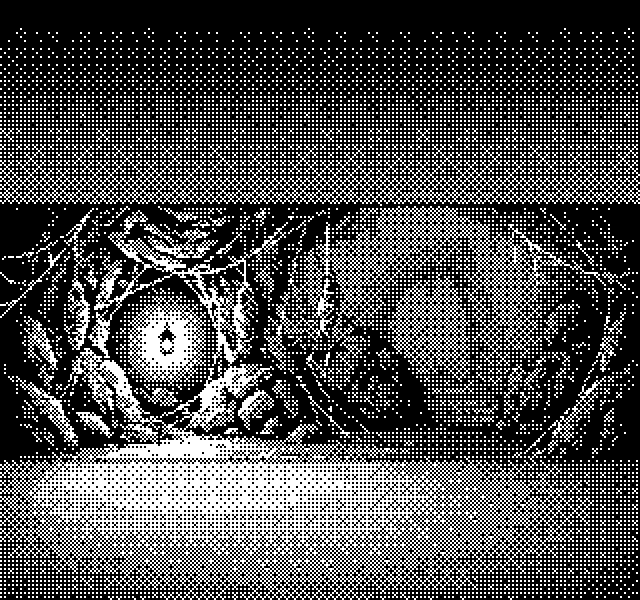
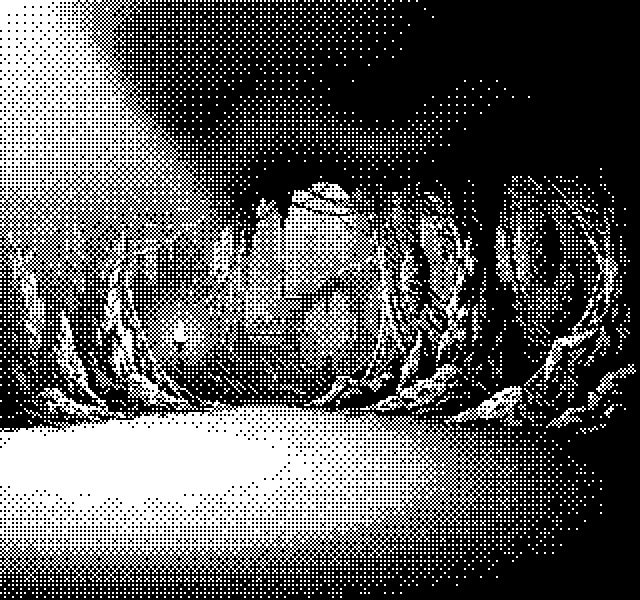
067 dojo follow-ups: arena3d holds the tiles from card landing (release in finally); 6 letterboxed arena stills regenerated, all 14 sheets rebuilt

Changed region(s): [[0.0, 0.0, 1.0, 1.0], [0.2812, 0.15, 0.375, 0.27], [0.375, 0.12, 0.4062, 0.15]]

diff --git a/worldd/static/site/fight3d/arena3d.js b/worldd/static/site/fight3d/arena3d.js
@@ -661,30 +661,53 @@ async function mountArena(card) {
       .then(() => stage());
     return;
   }
-  const same = F && !F.ended && F.key === fightKey(spec) && F.player;
-  if (!same) {
-    const ok = await build(card, spec);
-    if (!ok || !card.isConnected) return;
-  } else {
-    F.card = card;
-    if (F.line !== (spec.me || {}).line && (spec.me || {}).line) {
-      await rearm(spec.me.line);
+  // hold the tiles from the moment the card lands — build() may await
+  // rigs and sheets; a click in that gap would double-act. Whatever
+  // happens next (dead GL, a swapped card, a broken rig) the finally
+  // hands the tiles back and shows the log in full.
+  holdTiles(card, (spec.events || []).length > 0);
+  try {
+    const same = F && !F.ended && F.key === fightKey(spec) && F.player;
+    if (!same) {
+      const ok = await build(card, spec);
+      if (!ok || !card.isConnected) return;
+    } else {
+      F.card = card;
+      if (F.line !== (spec.me || {}).line && (spec.me || {}).line) {
+        await rearm(spec.me.line);
+      }
     }
+    if (!F || !card.isConnected) return;
+    F.card = card;
+    F.gen = ++genCounter;
+    if (!attach(card)) return;
+    GL.canvas.style.opacity = "";
+    startLoop();
+    // one rendered frame first, then the beats
+    await new Promise((r) => requestAnimationFrame(() => setTimeout(r, 120)));
+    if (!card.isConnected || !F) return;
+    await play(card, spec);
+    if (spec.phase === "victory" || spec.phase === "death" || spec.phase === "fled") {
+      // the fight is over — the next card tears the stage down
+      F.ended = true;
+    }
+  } finally {
+    releaseTiles(card);
   }
-  if (!F || !card.isConnected) return;
-  F.card = card;
-  F.gen = ++genCounter;
-  if (!attach(card)) return;
-  GL.canvas.style.opacity = "";
-  startLoop();
-  // one rendered frame first, then the beats
-  await new Promise((r) => requestAnimationFrame(() => setTimeout(r, 120)));
-  if (!card.isConnected || !F) return;
-  await play(card, spec);
-  if (spec.phase === "victory" || spec.phase === "death" || spec.phase === "fled") {
-    // the fight is over — the next card tears the stage down
-    F.ended = true;
-  }
+}
+
+function holdTiles(card, on) {
+  const opts = card.querySelector(".arena-opts");
+  if (!on || !opts) return;
+  opts.classList.add("busy");
+  card.querySelectorAll(".arena-opts button.opt").forEach((b) => { b.disabled = true; });
+}
+
+function releaseTiles(card) {
+  if (!card.isConnected) return;
+  card.querySelector(".arena-opts")?.classList.remove("busy");
+  card.querySelectorAll(".arena-opts button.opt").forEach((b) => { b.disabled = false; });
+  card.querySelectorAll(".alog .aline.pending").forEach((l) => l.classList.remove("pending"));
 }
 
 const game = document.getElementById("game");

diff --git a/research/3d-fight/gen_bg_arena.py b/research/3d-fight/gen_bg_arena.py
@@ -50,7 +50,11 @@ STAGE300 = (
     "it. All scenery sits BEHIND that open ground in the middle band; "
     "the UPPER THIRD is quiet — dark sky, roof or haze with soft "
     "gradients only, no busy detail (a heads-up display will sit over "
-    "it). The ground line is strictly horizontal. "
+    "it). The ground line is strictly horizontal. The picture FILLS the "
+    "whole square canvas edge to edge and top to bottom — one continuous "
+    "scene, NO letterbox, NO black bars, NO blank bands, NO frame or "
+    "border, NO cinematic strip: sky/roof at the very top of the canvas, "
+    "ground at the very bottom. "
 )
 
 
